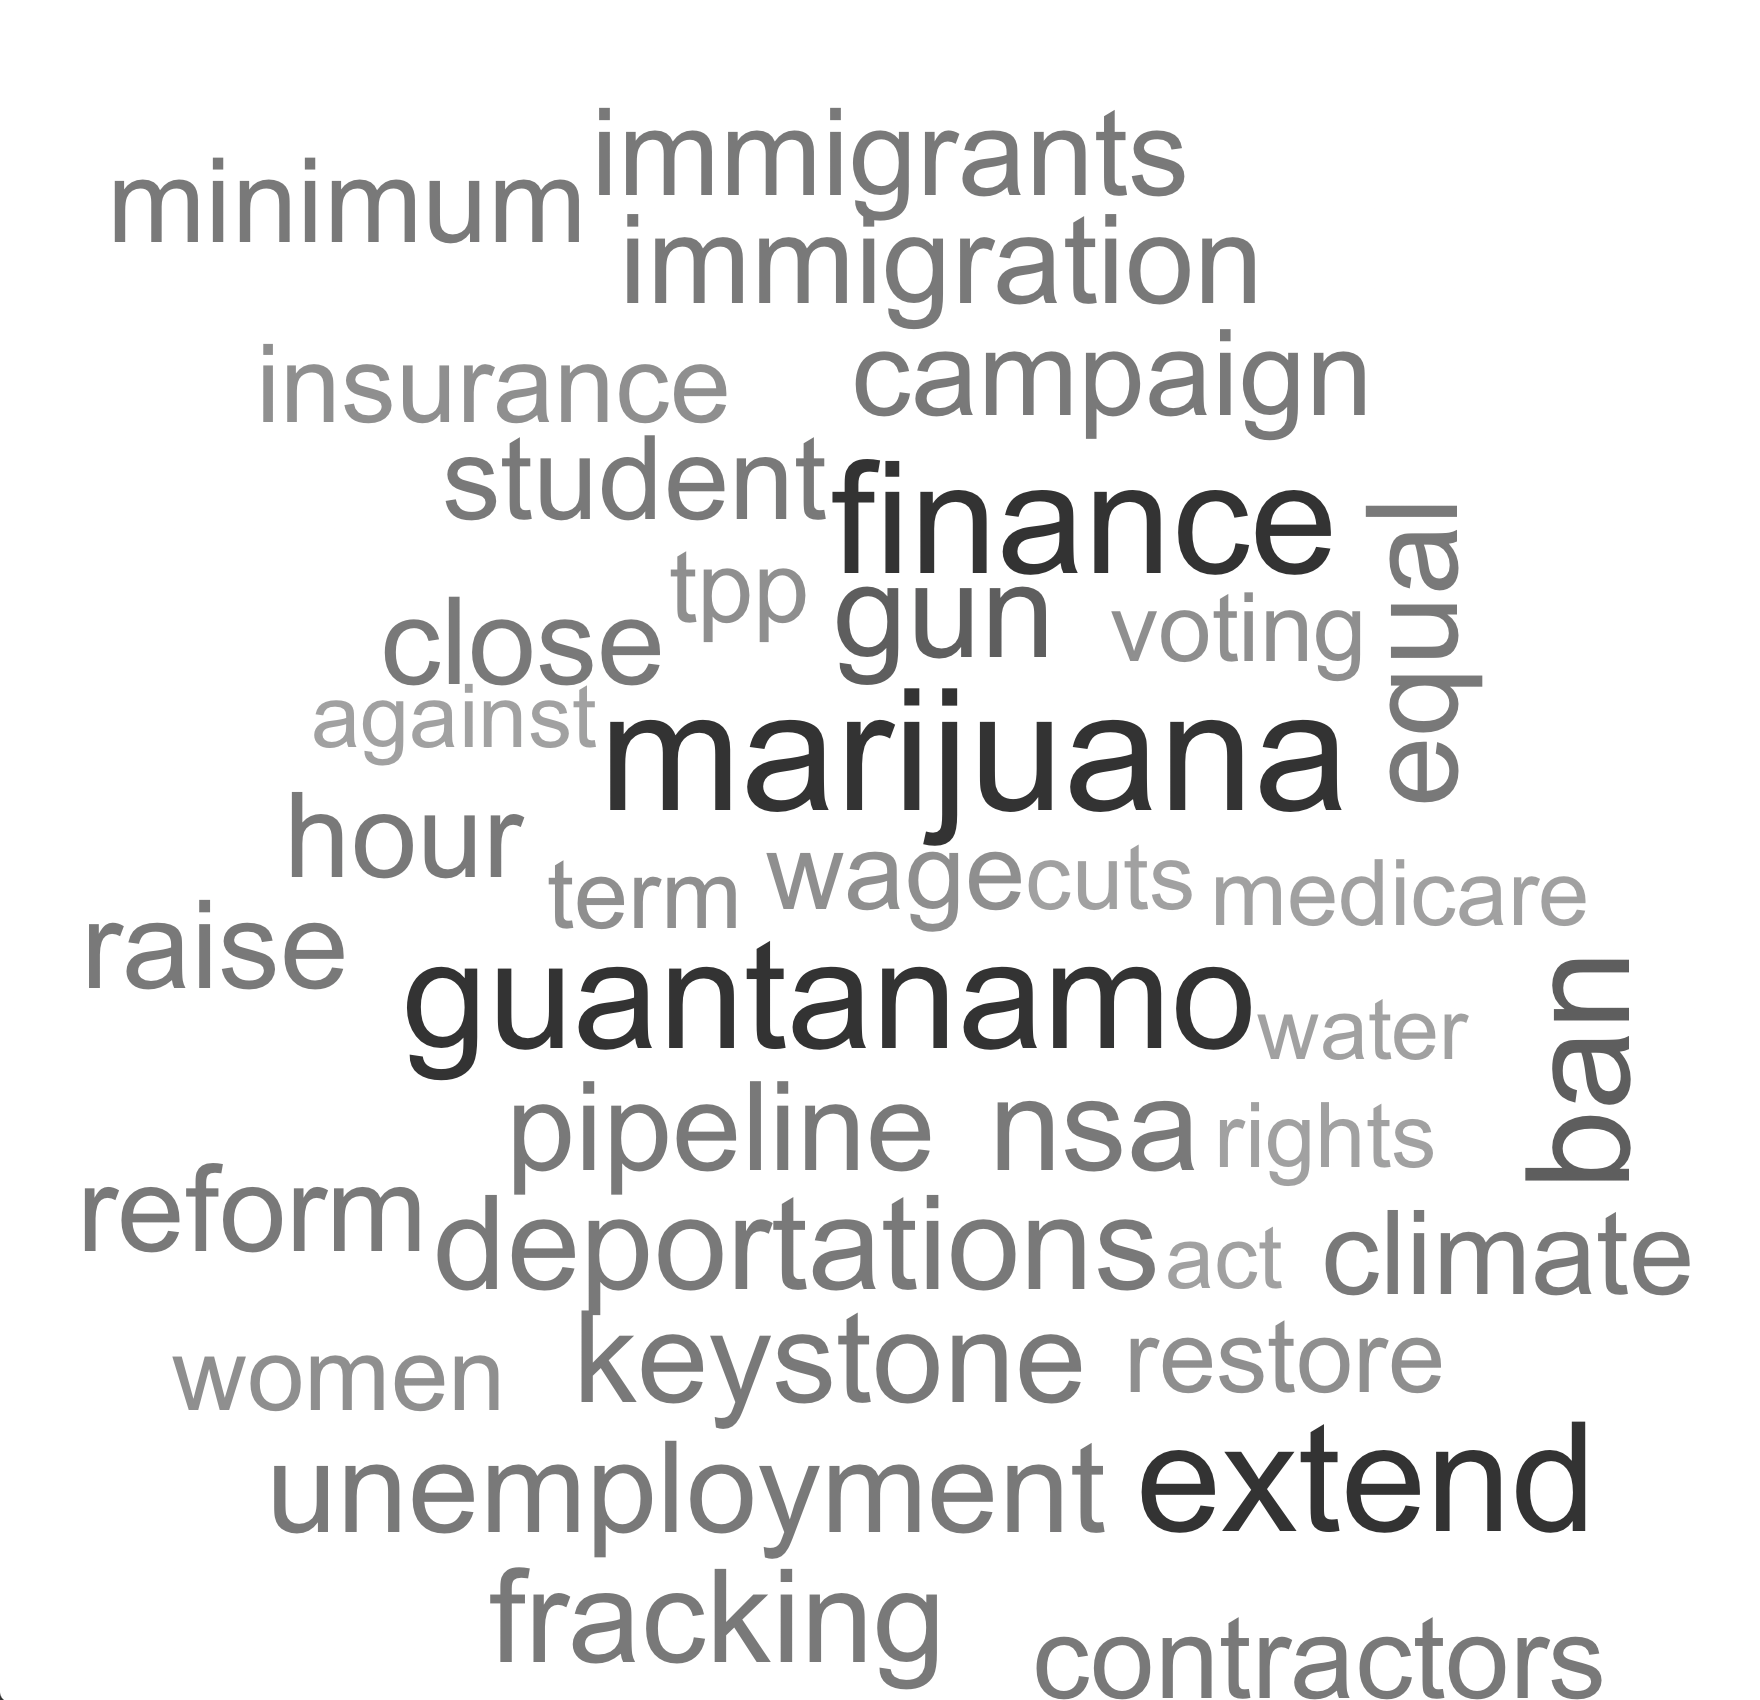
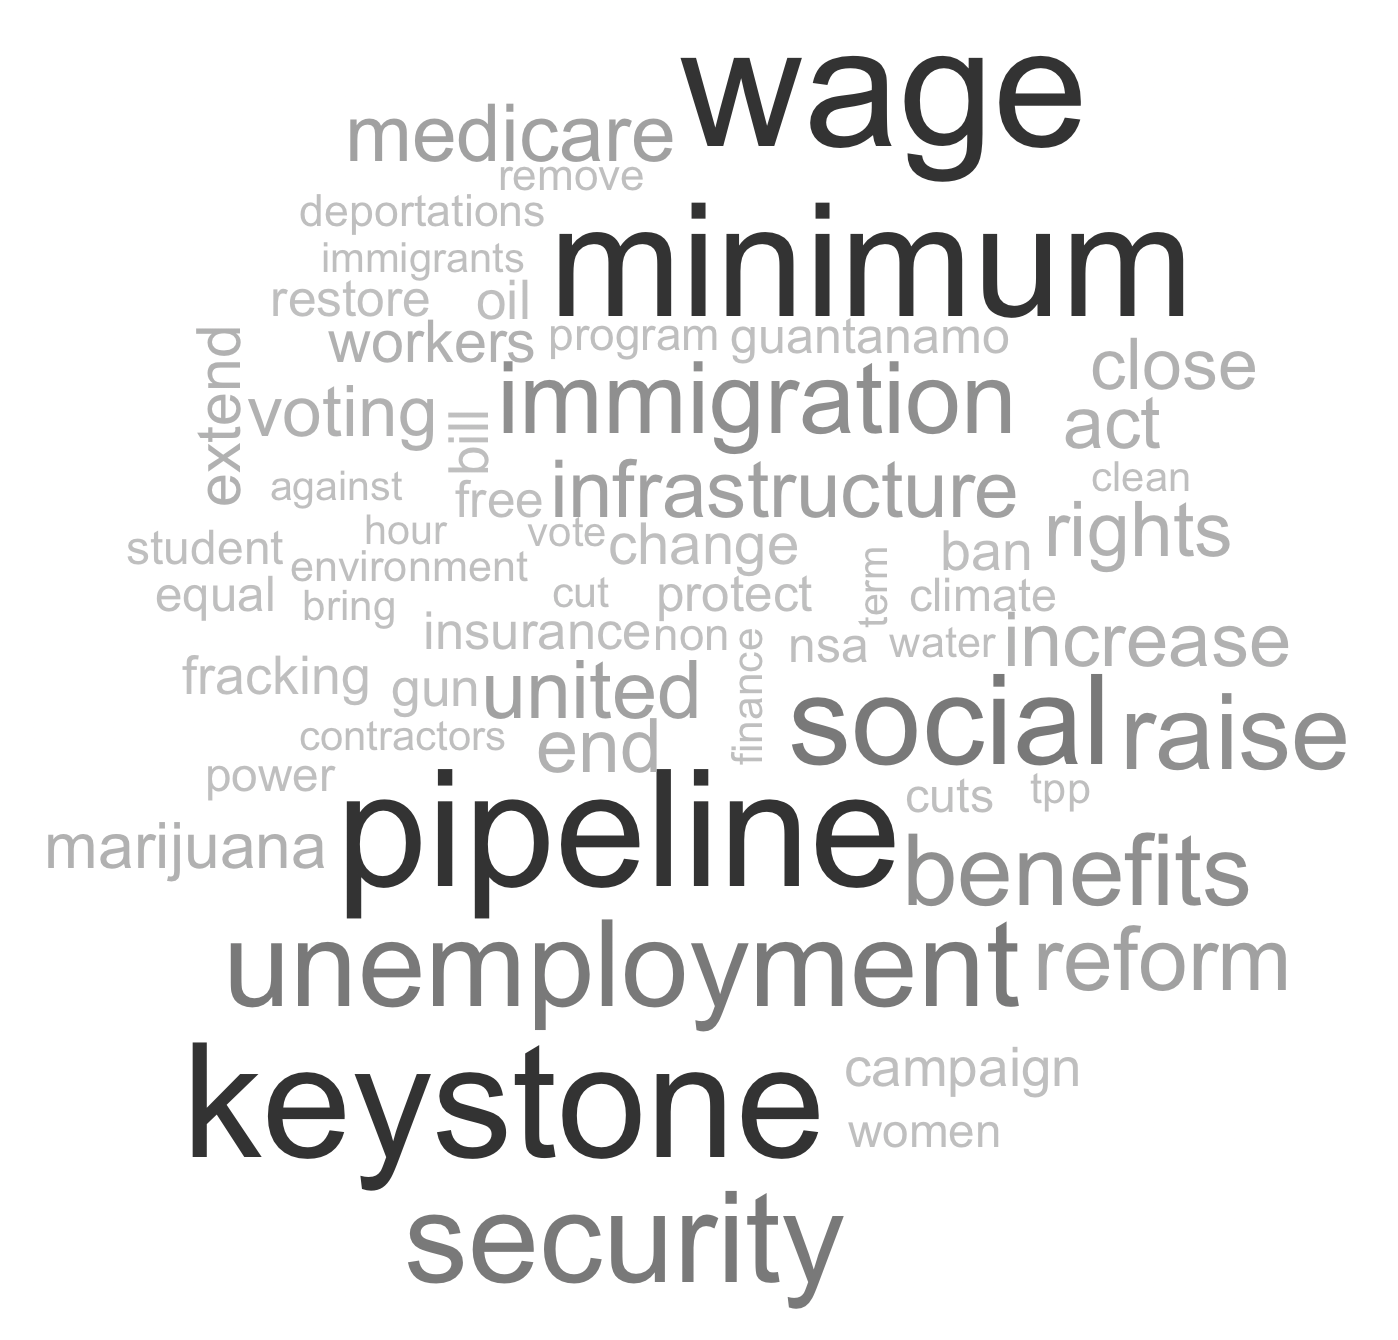
Clarify methodology used to generate final word cloud.

Changed region(s): [[0.0308, 0.0306, 0.9843, 1.0]]

diff --git a/README.md b/README.md
@@ -18,7 +18,7 @@ However, having several thousand documents that needed examination, and not havi
 
 <p align=center><img src=https://raw.githubusercontent.com/alipman88/keyword-extraction/master/specificity.png width=500 /></p>
 
-*(Common English words were not removed when generating the above image, to demonstrate the effectiveness of the weighting adjustment compared to raw frequencies.)*
+*The above word cloud includes the 60 words determined to be the most specific or meaningful keywords, with each word's size/shading determined by its frequency. (Common English words were not removed when generating the above image, to demonstrate the effectiveness of the weighting adjustment.)*
 
 The original script was written in Ruby, and as a side-project, re-written in April 2017 in R. (Much of the R code used [this excellent introduction to text mining concepts in R](https://eight2late.wordpress.com/2015/05/27/a-gentle-introduction-to-text-mining-using-r/) for reference.)
 
